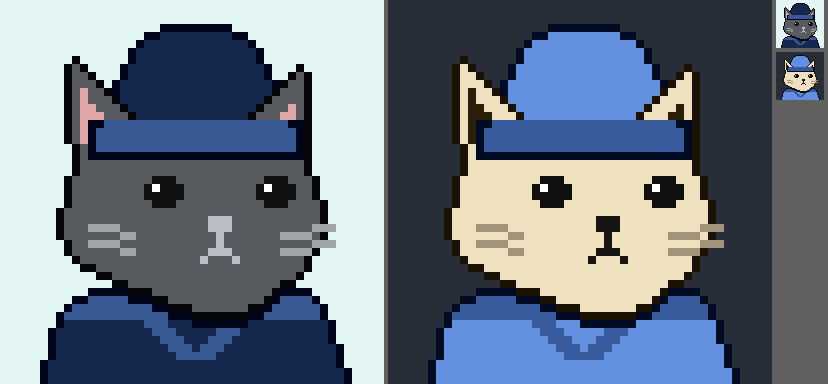
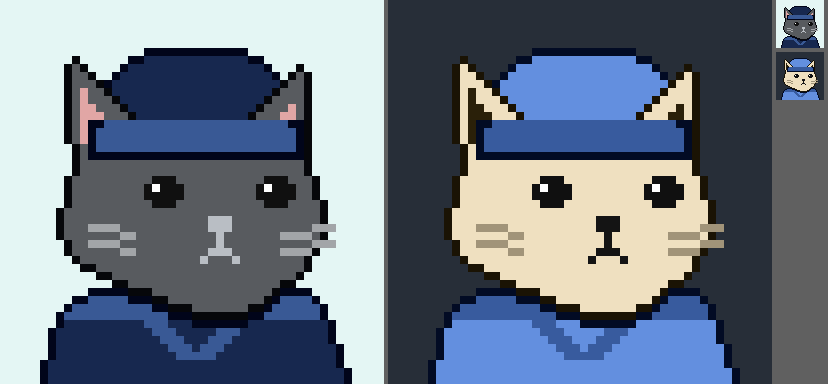
Sit the beanie down on the cat's head
Its crown ran twelve rows and widened the whole way, which is a cone, and a cone
above a cuff is a bowler -- it read as a small hard hat perched on the cat rather
than knitwear pulled onto it. It also left the beanie sharing the bucket's
silhouette, which the last commit had just gone to some trouble to separate.

Now it goes wide almost immediately and then runs straight down, so the top is a
curve and the ears cut through the sides, which is the shape of the head
underneath. The comment above it had claimed this all along; the spans never did.

diff --git a/packages/hyper-identicons/src/art/data/headwear.ts b/packages/hyper-identicons/src/art/data/headwear.ts
@@ -2,7 +2,7 @@
 export const headwear: Record<string, string> = {
   "none": 'AAABAQEA',
[2 lines of base64/hex data omitted]
+  "beanie": 'BgsOGwcADQEMAAIBDQYCAQkAAQERBgEBBwABARMGAQEFAAEBFQYGABQGCAASBgoAEAYMAA4GBwACARcHAwEZBwIBGQcCARkHHAE=',
[1 lines of base64/hex data omitted]
   "headphones": 'BAMYKw8ADAEcABIBFgADAQEGAgEMAAIBAQYDAREAAgECBgIBEAACAQIGAgEQAAIGAQEUAAEBAgYBAAIBCQACAQQAAQEWAAEBAwABBgIBBgABAQIGHwADBgEBBAABAQMGHwAEBgEBAwABAQMGHwAEBgEBAwABAQMGHwAEBgEBAwABAQMGHwAEBgEBAwABAQMGHwAEBgEBAwABAQMGHwAEBgEBAwABAQMGHwAEBgEBAgABAQcGAQEZAAEBBgYDAQEGBQgBBgEBGQABAQEGBQgBBgIBAQYFCAEGAQEZAAEBAQYFCAEGAgEBBgUIAQYBARkAAQEBBgUIAQYCAQEGBQgBBgEBGQABAQEGBQgBBgIBAQYFCAEGAQEZAAEBAQYFCAEGAgEBBgUIAQYBARkAAQEBBgUIAQYCAQEGBQgBBgEBGQABAQEGBQgBBgIBBwYBARkAAQEHBgEBAQAHARsABwEBAA==',
[1 lines of base64/hex data omitted]

diff --git a/tools/make-traits.py b/tools/make-traits.py
@@ -425,25 +425,28 @@ emit("headwear/cap-h.txt", hat({
 # where it can sit clear of the crown.
 # Beanie, bucket and cap were three versions of the same shallow dome plus a
 # horizontal bar, and at 48px they were not telling each other apart. The beanie
-# takes the tall narrow crown: it starts two rows above the ear tips and slims
-# rather than widens, so its silhouette is a dome where the bucket's is a mushroom
-# and the cap's is a shell with a peak swept off one side.
+# is the one that hugs the skull: it goes wide almost immediately and then runs
+# straight down, so the top is a curve. The bucket is the straight-sided cone with
+# the flat top and the cap is a shell with a peak swept off one side.
+#
+# Low and wide, not tall and narrow. Twelve rows of crown starting at row 2 and
+# widening the whole way is a cone, which is both the bucket's shape and, perched
+# above a cuff, a bowler -- it read as a small hard hat sitting on the cat rather
+# than knitwear pulled onto it. A beanie has no crown to speak of; it is the shape
+# of the head underneath.
 #
 # Only the crown is cut. The cuff is knit and pulled down over the ear bases, so
 # it passes in front of them and the tips come out through the crown above it,
 # which is what a beanie on a cat looks like and also gives the ears somewhere to
 # be other than sliced off at the hairline.
 emit("headwear/beanie.txt", hat({
-    2: [(20, 28, "a")],
-    3: [(18, 30, "a")],
-    4: [(17, 31, "a")],
-    5: [(16, 32, "a")],
+    5: [(18, 30, "a")],
     6: [(16, 32, "a")],
     7: [(15, 33, "a")],
-    8: [(15, 33, "a")],
-    9: [(14, 34, "a")],
-    10: [(14, 34, "a")],
-    11: [(14, 34, "a")],
+    8: [(14, 34, "a")],
+    9: [(13, 35, "a")],
+    10: [(13, 35, "a")],
+    11: [(13, 35, "a")],
     12: [(13, 35, "a")],
     13: [(13, 35, "a")],
     # The cuff overhangs the crown by two columns a side and is five rows deep, so

diff --git a/AGENTS.md b/AGENTS.md
@@ -360,9 +360,15 @@ Two rules of thumb learned the hard way:
 - **Hats are distinguished by silhouette, not by detail.** Beanie, bucket and cap
   were three versions of one shallow dome plus a horizontal bar, and no amount of
   adjusting the bar fixed it — the difference has to be in the *crown*, because at
-  48px the crown is most of what there is. The bucket is now a flat-topped
-  truncated cone, which is what a bucket hat actually is; the beanie keeps the
-  rounded dome; the cap is a shell with a peak swept off one side.
+  48px the crown is most of what there is. The bucket is a flat-topped truncated
+  cone, which is what a bucket hat actually is; the beanie goes wide almost at once
+  and then runs straight down, so its top is a curve; the cap is a shell with a
+  peak swept off one side.
+
+  A beanie in particular has to be **low**. Twelve rows of crown widening the whole
+  way is a cone, and a cone above a cuff is a bowler — it read as a small hard hat
+  perched on the cat rather than knitwear pulled onto it. A beanie has no crown to
+  speak of; it is the shape of the head underneath.
 - **A background cannot be a single figure, and it cannot be intricate either.**
   The cat owns the middle of the canvas; what is left is two margins about eight
   columns wide and a band across the top. The Hyperliquid mark failed here twice
